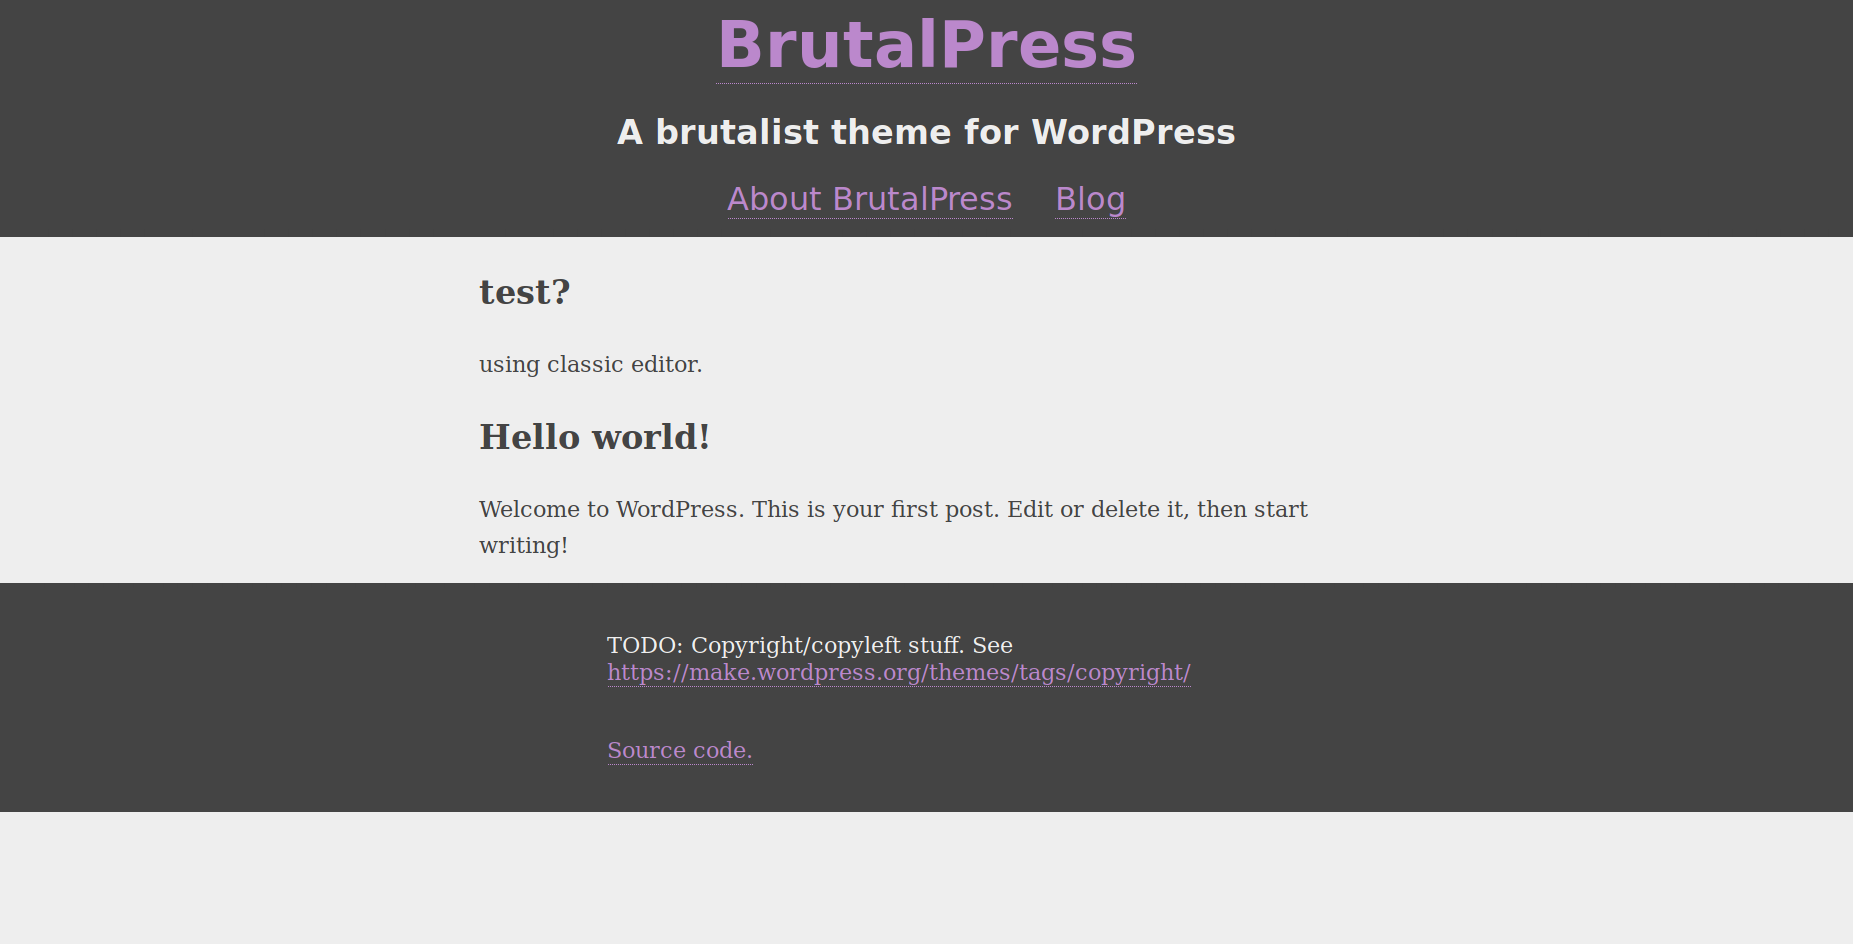
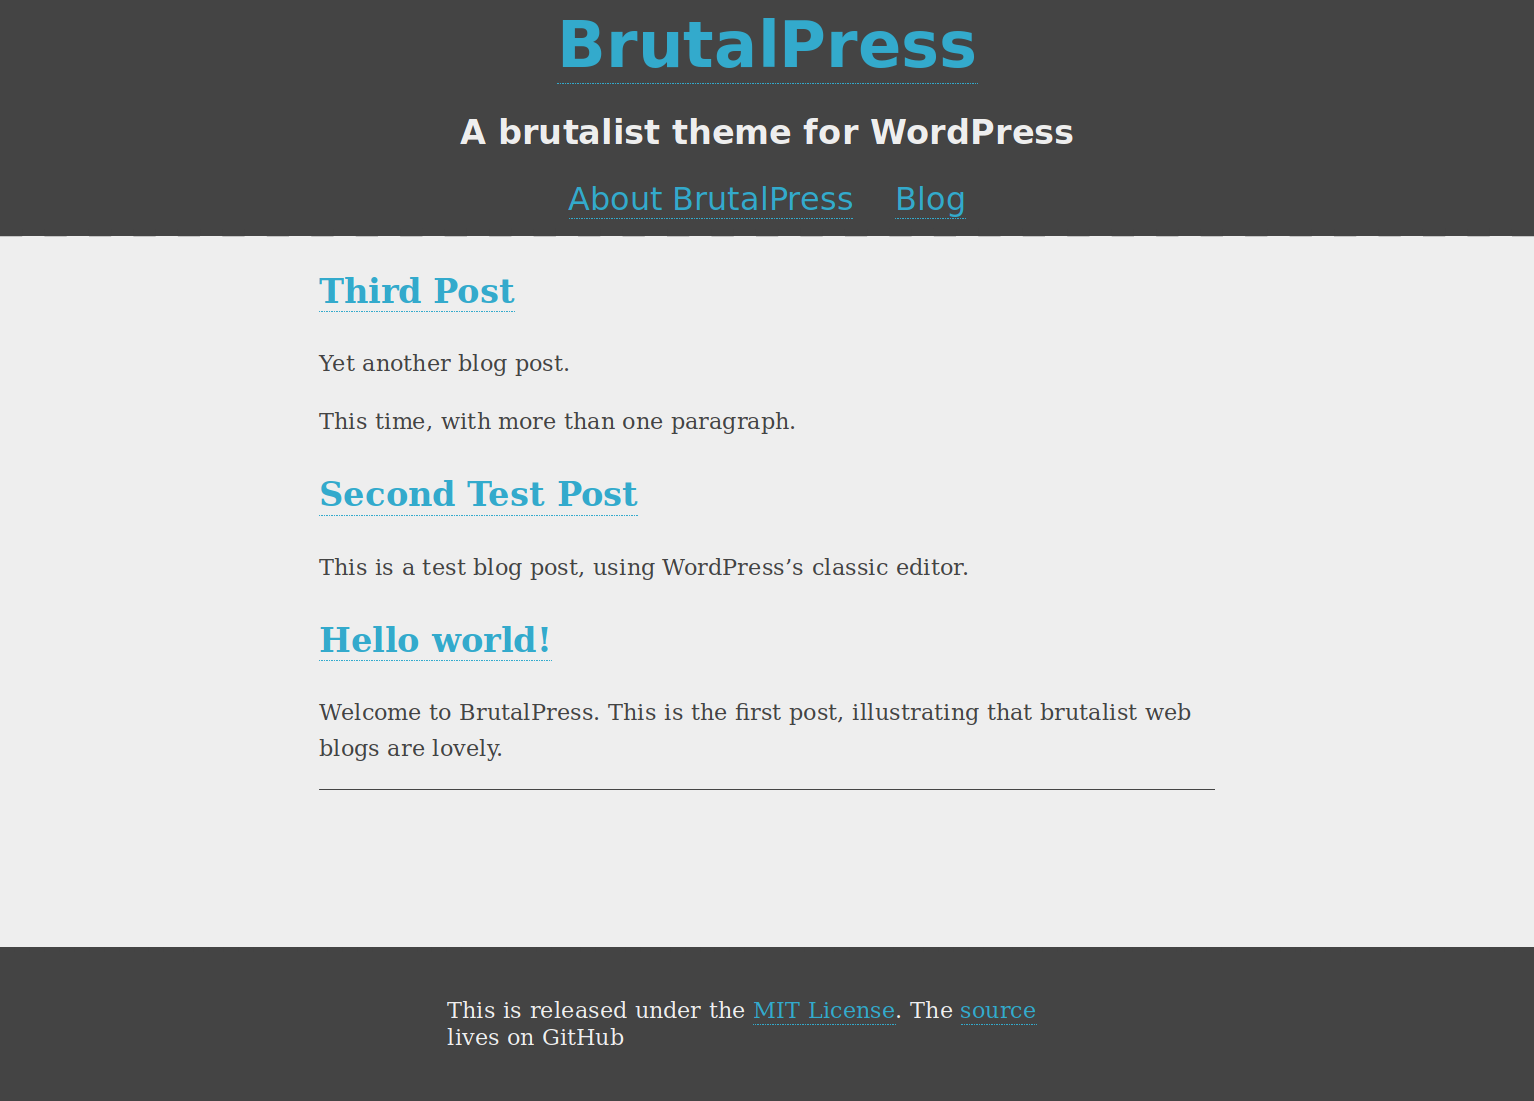
improved blog layout, suggested wp2static conversion, added functions.php.

diff --git a/style.css b/style.css
@@ -42,6 +42,7 @@ main {
   margin: 0 auto;
   line-height: 1.6;
   margin-bottom: 8rem;
+	padding-bottom: 4rem;
 }
 footer {
   padding: 1em 0;
@@ -99,7 +100,9 @@ h3 {
   border-left: 0.1em solid #444;
 }
 .codeBlock {
-  padding: 0.5em;
+	font-family: monospace;
+	padding: 0.1em 0.3em;
+  margin: 0em 0.2em;
   border: 0.1em solid #444;
   white-space: pre-wrap;
   overflow-x: scroll;

diff --git a/header.php b/header.php
@@ -10,7 +10,6 @@
 <html lang="en">
 <head>
   <meta charset="utf-8">
-  <title><?php echo get_bloginfo( 'name' ); ?></title>
   <meta name="description" content="<?php echo get_bloginfo( 'description' ); ?>">
   <meta name="author" content="<?php /* the_author() */ ?>">
   <meta name="viewport" content="width=view-width, initial-scale=1">
@@ -25,9 +24,10 @@
 
     <nav role="navigation" class="-medium">
       <ul>
-    
+
 				<?php wp_list_pages( '&title_li=' ); ?>
 
       </ul>
     </nav>
   </header>
+	<main>

diff --git a/footer.php b/footer.php
@@ -10,10 +10,7 @@
 </main>
 <footer class="footer -invertColor">
   <section id="copyright" role="contentinfo" class="-copyright">
-    TODO: Copyright/copyleft stuff.
-  </section>
-  <section id="colophon" class="-colophon">
-    TODO: Source code link.
+    <p>This is released under the <a href="https://opensource.org/licenses/MIT">MIT License</a>. The <a href="https://github.com/jmfcodes/brutalpress">source</a> lives on GitHub</p>
   </section>
 </footer>
 <?php wp_footer(); ?>

diff --git a/single.php b/single.php
@@ -1,0 +1,24 @@
+<?php
+/*
+ * This is what pages look like.
+ *
+ * @link https://developer.wordpress.org/themes/basics/template-hierarchy/
+ *
+ */
+?>
+
+
+<?php get_header(); ?>
+
+<div class="page">
+
+  <?php
+    if ( have_posts() ) : while ( have_posts() ) : the_post();
+      get_template_part( 'content', get_post_format() );
+
+		endwhile; endif;
+  ?>
+
+</div> 
+
+<?php get_footer(); ?>

diff --git a/functions.php b/functions.php
@@ -1,0 +1,12 @@
+<?php
+
+/* user can create and add custom.css if desired. */
+
+function startwordpress_scripts() {
+	wp_enqueue_style( 'customcss', get_template_directory_uri() . '/css/custom.css');
+}
+
+add_action( 'wp_enqueue_scripts', 'startwordpress_scripts' );
+
+// add custom title to each page 
+add_theme_support( 'title-tag' );

diff --git a/content.php b/content.php
@@ -8,8 +8,7 @@
 ?>
 
 <div class="blog-post">
-	<h2 class="blog-post-title"><?php the_title(); ?></h2>
-	<p class="blog-post-meta"><?php the_date(); ?> by <a href="#"><?php the_author(); ?></a></p>
+	<h2 class="blog-post-title"><a href="<?php the_permalink(); ?>"><?php the_title(); ?></a></h2>
 
  <?php the_content(); ?>
 

diff --git a/index.php b/index.php
@@ -16,9 +16,7 @@
 
 get_header(); ?>
 
-	<main role="main">
-
-		<div class="">
+		<section>
 
 			<?php
 			if ( have_posts() ) : while ( have_posts() ) : the_post();
@@ -28,6 +26,6 @@ get_header(); ?>
 			endwhile; endif;
 			?>
 
-		</div> <!-- /.blog-main -->
+		</section> <!-- /.blog-main -->
 
 <?php get_footer(); ?>

diff --git a/404.php b/404.php
@@ -1,6 +1,6 @@
 <?php get_header(); ?>
 
-<section class="content">
+<section class="content 404">
   <h2>Oops!</h2>
   <p>It looks like you found a broken link.</p>
 </section>

diff --git a/README.md b/README.md
@@ -2,7 +2,12 @@
 
 A brutalist WordPress theme.
 
-This is not fully functional yet! Use at your own risk.
+Mostly functional. Use at your own risk.
+
+## TODO:
+
+- remove clickability from page titles: they're redundant.
+- what to do with comments? (besides reject the comments feature on moral grounds) display, permalink-only-view?
 
 ## Credits
 
